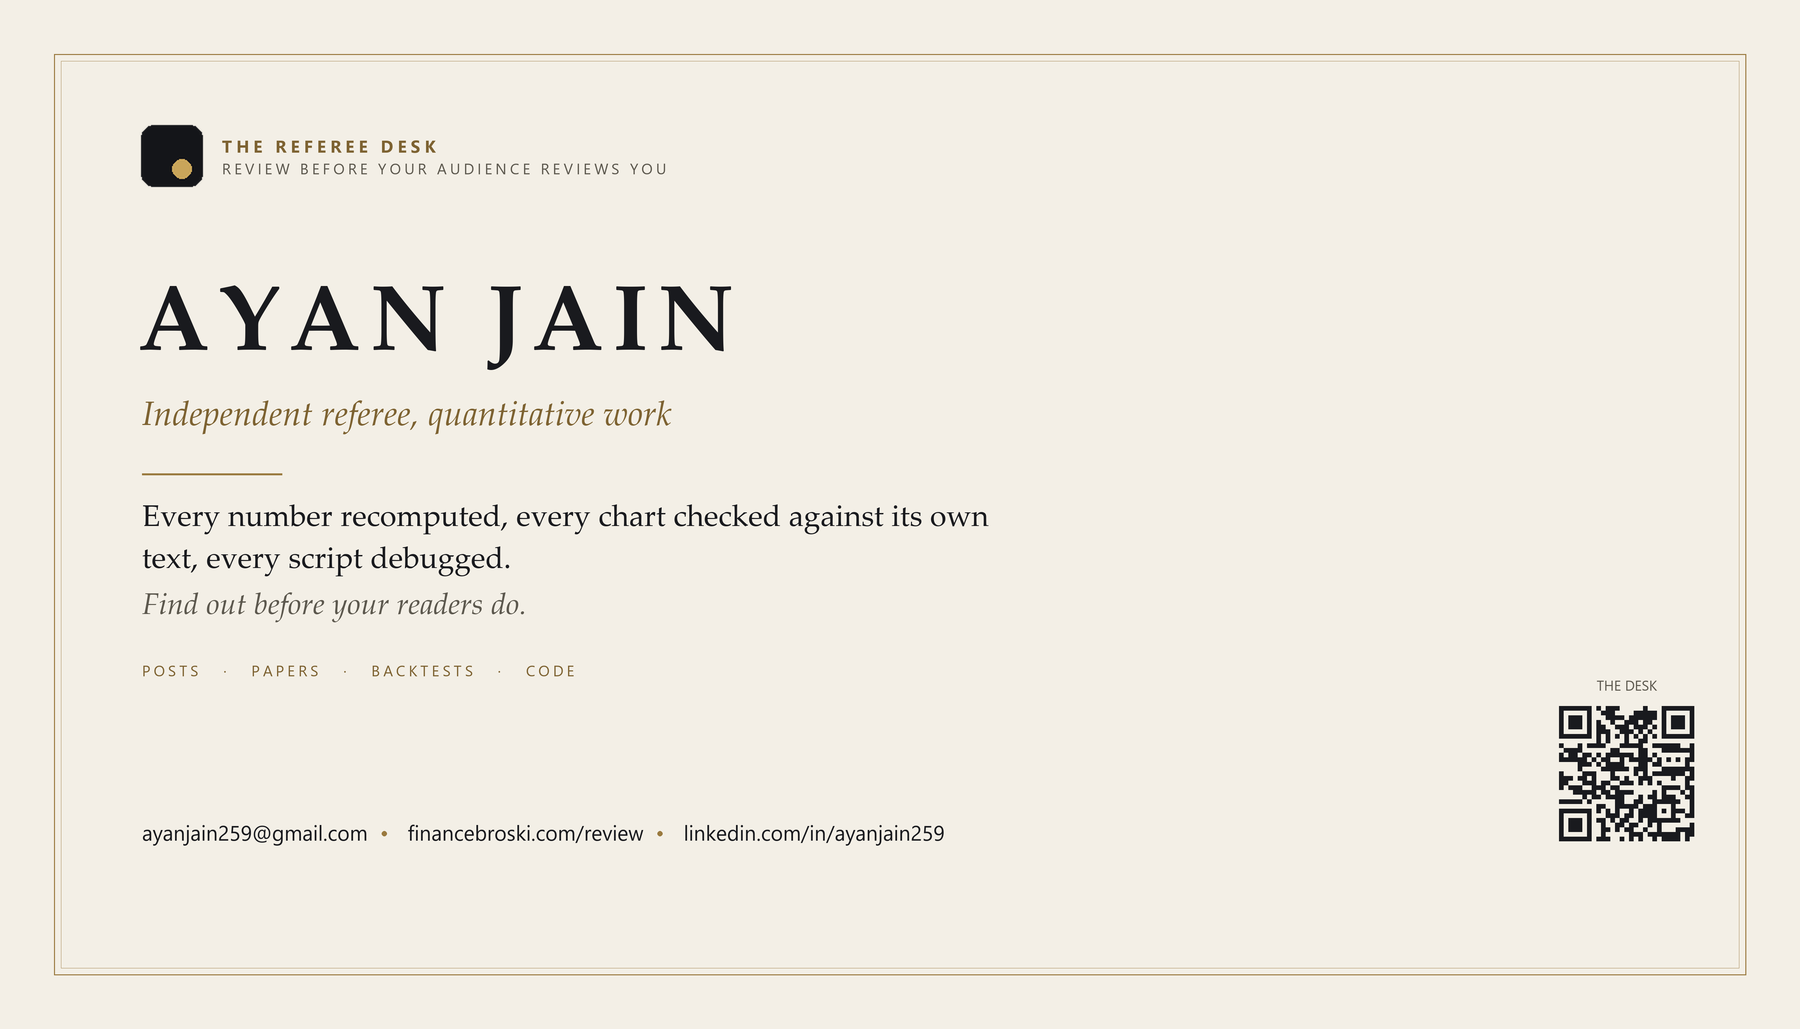
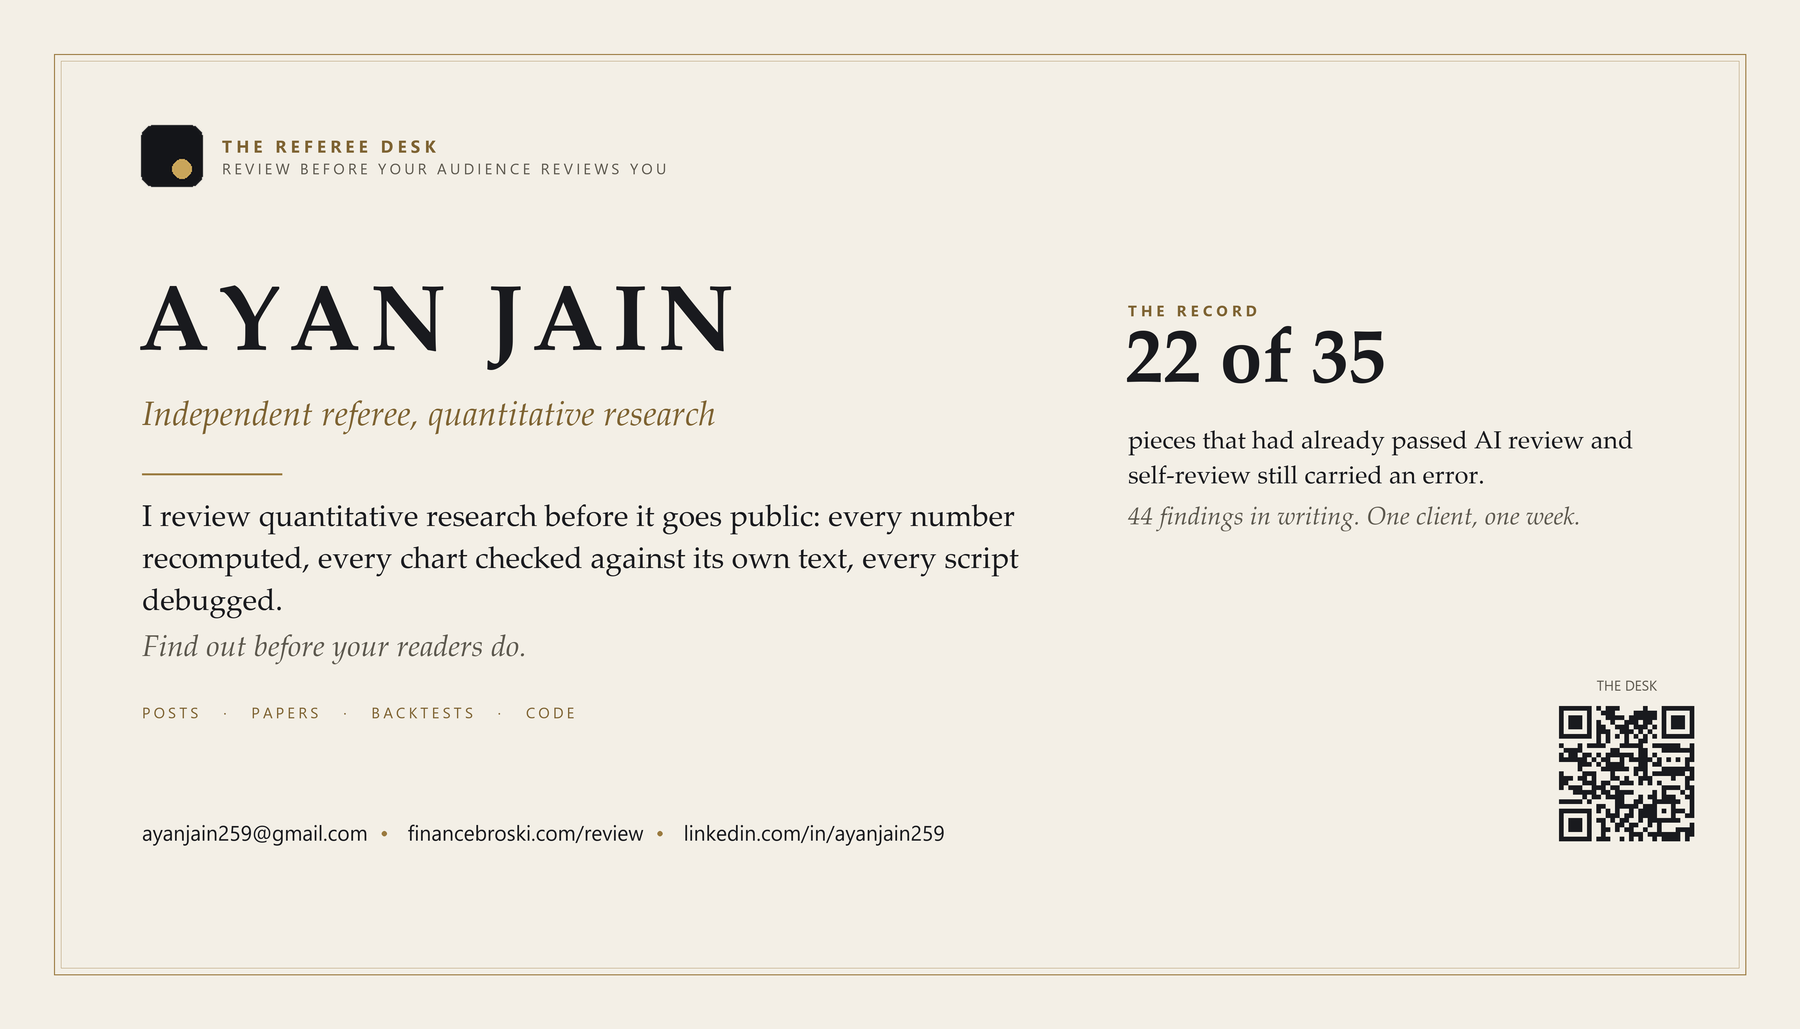
Card: quantitative research, the review line, the record (22 of 35 AI-reviewed pieces still carried an error)
Claude-Session: https://claude.ai/code/session_01HtixSTThAjPBnEEUpmQUYh

diff --git a/card.html b/card.html
@@ -4,16 +4,16 @@
 <meta charset="utf-8">
 <meta name="viewport" content="width=device-width,initial-scale=1">
 <title>Ayan Jain, The Referee Desk</title>
-<meta name="description" content="Digital card for The Referee Desk: independent review of quantitative work before it goes public. Posts, papers, backtests, and the code underneath. Contact, site, one line.">
+<meta name="description" content="Digital card for The Referee Desk: independent review of quantitative research before it goes public. Posts, papers, backtests, and the code underneath. Contact, site, one line.">
 <meta property="og:title" content="Ayan Jain, The Referee Desk">
-<meta property="og:description" content="Independent review of quantitative work before it goes public: posts, papers, backtests, and the code underneath. Find out before your readers do.">
+<meta property="og:description" content="I review quantitative research before it goes public: posts, papers, backtests, and the code underneath. Of 35 pieces that had already passed AI review and self-review, 22 still carried an error: 44 findings in writing, one client, one week. Find out before your readers do.">
 <meta property="og:type" content="profile">
 <meta property="og:url" content="https://financebroski.com/card.html">
 <meta property="og:image" content="https://financebroski.com/card.png">
 <link rel="icon" type="image/png" href="mark.png">
 <meta name="referrer" content="strict-origin">
 <link rel="stylesheet" href="style.css">
-<script type="application/ld+json">{"@context":"https://schema.org","@type":"Person","name":"Ayan Jain","jobTitle":"Independent referee, quantitative work","url":"https://financebroski.com/review.html","email":"mailto:ayanjain259@gmail.com","sameAs":["https://www.linkedin.com/in/ayanjain259","https://financebroski.com"],"worksFor":{"@type":"Organization","name":"The Referee Desk","url":"https://financebroski.com/review.html"}}</script>
+<script type="application/ld+json">{"@context":"https://schema.org","@type":"Person","name":"Ayan Jain","jobTitle":"Independent referee, quantitative research","url":"https://financebroski.com/review.html","email":"mailto:ayanjain259@gmail.com","sameAs":["https://www.linkedin.com/in/ayanjain259","https://financebroski.com"],"worksFor":{"@type":"Organization","name":"The Referee Desk","url":"https://financebroski.com/review.html"}}</script>
 <style>
 body.card .wrap{max-width:560px;margin:0 auto;padding:2.6rem 1.2rem 3.5rem}
 body.card .vcard{background:var(--panel);border:1px solid var(--line);border-radius:14px;box-shadow:var(--shadow);padding:26px 26px 22px;border-top:4px solid var(--accent)}
@@ -39,12 +39,12 @@ body.card .fine{margin-top:1.1rem}
 <body class="card">
 
 <div class="wrap">
-  <img class="cardimg" src="card.png" width="1800" height="1029" alt="Ayan Jain, The Referee Desk: independent review of quantitative work. Email, desk and LinkedIn below.">
+  <img class="cardimg" src="card.png" width="1800" height="1029" alt="Ayan Jain, The Referee Desk: independent review of quantitative research. 22 of 35 AI-reviewed pieces still carried an error. Email, desk and LinkedIn below.">
   <div class="vcard">
     <img class="mark" src="mark.png" alt="">
     <div class="kicker">The Referee Desk</div>
     <h1>Ayan Jain</h1>
-    <p class="one">Independent review of quantitative work before it goes public: posts, papers, backtests, and the code underneath.</p>
+    <p class="one">I review quantitative research before it goes public: posts, papers, backtests, and the code underneath. Of 35 pieces that had already passed AI review and self-review, 22 still carried an error: 44 findings in writing, one client, one week.</p>
     <div class="rows">
       <div class="row"><span class="k">Email</span><a href="mailto:ayanjain259@gmail.com?subject=Review%20request">ayanjain259@gmail.com</a></div>
       <div class="row"><span class="k">Desk</span><a href="https://financebroski.com/review">financebroski.com/review</a></div>
